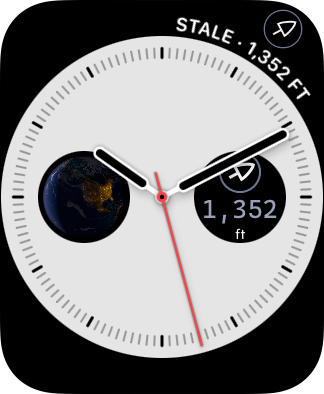
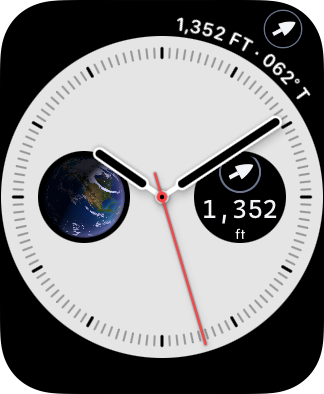
Retake the SE's watch face at 10:09 with a fresh fix
Redrawn before the minute, its Earth subdial now shows the day side, and
the corner reads 1,352 FT · 062° T with a filled arrow (no STALE).

diff --git a/product/watch/devices/README.md b/product/watch/devices/README.md
@@ -18,7 +18,7 @@ from `source/product/devices/`, where `devices.json` records each capture's devi
 | `watch-ultra-unfired.png` | Apple Watch Ultra 4, watchOS 27.0 (24R362) | FSWatchUnfired |
 | `watch-ultra-face.png` | Apple Watch Ultra 4, watchOS 27.0 (24R362) | Modular Ultra with Find the rocket in the middle (rectangular) and bottom-middle (circular) slots |
 | `watch-ultra-face-aod.png` | Apple Watch Ultra 4, watchOS 27.0 (24R362) | The same face in Always On: the age to the minute |
-| `watch-se40-face.png` | Apple Watch SE 3, watchOS 27.0 (24R362) | Infograph with Find the rocket in the top-right corner and the right sub-dial, at 10:10; the fix is past its 60 s limit, so the corner says STALE and the arrow is outlined |
+| `watch-se40-face.png` | Apple Watch SE 3, watchOS 27.0 (24R362) | Infograph with Find the rocket in the top-right corner and the right sub-dial, at 10:09 AM with a fresh fix |
 | `watch-se40-face-aod.png` | Apple Watch SE 3, watchOS 27.0 (24R362) | The same face in Always On |
 | `wear-find.png` | Wear OS large round, Wear OS 7.0, API 37.0 (android-wear-signed arm64 system image r1, build CP2A.260330.028.E2) | Find |
 | `wear-pad.png` | Wear OS large round, Wear OS 7.0, API 37.0 (android-wear-signed arm64 system image r1, build CP2A.260330.028.E2) | Pad, read only |
